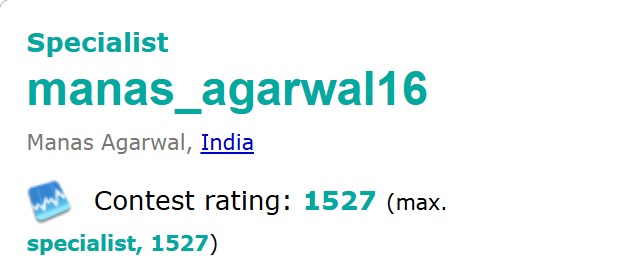
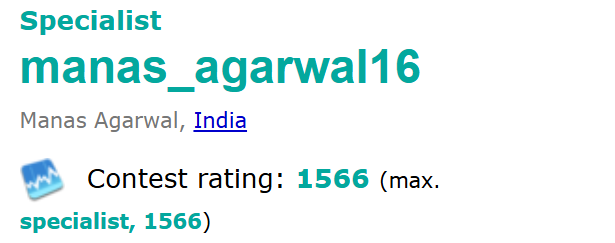
codeforces rating update

diff --git a/index.html b/index.html
@@ -516,7 +516,7 @@
             
                     <span class="dot">•</span>
             
-                    <div>Specialist | max rating: 1527 | 550+ Problems </div>
+                    <div>Specialist | max rating: 1566 | 600+ Problems </div>
                   </div>
             
                   <div class="project-links">
